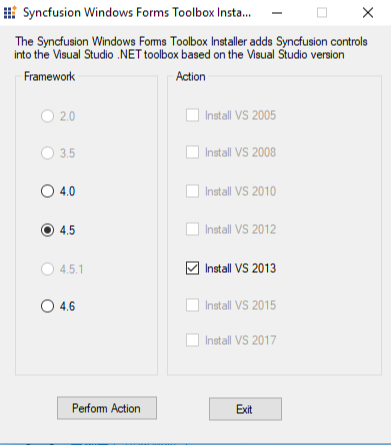
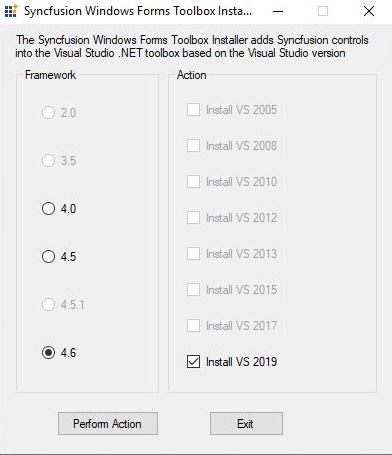
VS2019Support changes committed

diff --git a/Common/Essential-Studio/System-Requirements.md b/Common/Essential-Studio/System-Requirements.md
@@ -29,7 +29,7 @@ The following topic describes the system requirements required by Syncfusion ASP
 
 ### Development Environment
 
-* Microsoft Visual Studio 2015/2017
+* Microsoft Visual Studio 2015/2017/2019
 * .NET Framework 4.5 and later
 * ASP.NET MVC 4 or ASP.NET MVC 5
 
@@ -101,7 +101,7 @@ The following topic describes the system requirements required by Syncfusion ASP
 
 ### Development Environment
 
-* Microsoft Visual Studio 2015/2017
+* Microsoft Visual Studio 2015/2017/2019
 * .NET Core 2.0
 
 ### Browser support and Required Polyfills
@@ -201,7 +201,7 @@ The following topic describes the system requirements required by Syncfusion Win
 
 ### Development Environment
 
-* Microsoft Visual Studio 2005/2008/2010/2012/2013/2015/2017
+* Microsoft Visual Studio 2005/2008/2010/2012/2013/2015/2017/2019
 * .NET Framework 2.0/3.5/4.0/4.5/4.5.1/4.6
 
 ## WPF
@@ -225,7 +225,7 @@ The following topic describes the system requirements required by Syncfusion WPF
 
 ### Development Environment
 
-* Microsoft Visual Studio 2008/2010/2012/2013/2015/2017
+* Microsoft Visual Studio 2008/2010/2012/2013/2015/2017/2019
 * .NET Framework 2.0/3.5/4.0/4.5/4.5.1/4.6
 
 ## Universal Windows Platform
@@ -244,7 +244,7 @@ The following topic describes the system requirements required by Syncfusion Uni
 
 ### Development Environment
 
-* Microsoft Visual Studio 2015/2017
+* Microsoft Visual Studio 2015/2017/2019
 * Windows 10 SDK
 
 ## Xamarin
@@ -269,7 +269,7 @@ The following topic describes the system requirements required by Syncfusion Xam
 
 ### Development Environment
 
-* Microsoft Visual Studio 2015/2017
+* Microsoft Visual Studio 2015/2017/2019
 
 ## ASP.NET Web Forms
 
@@ -291,7 +291,7 @@ The following topic describes the system requirements required by Syncfusion ASP
 
 ### Development Environment
 
-* Microsoft Visual Studio 2010/ 2012/2013/2015/2017
+* Microsoft Visual Studio 2010/ 2012/2013/2015/2017/2019
 * .NET Framework 3.5/4.0/4.5/4.5.1/4.6
 
 
@@ -315,7 +315,7 @@ The following topic describes the system requirements required by Syncfusion ASP
 
 ### Development Environment
 
-* Microsoft Visual Studio 2010/ 2012/2013/2015/2017
+* Microsoft Visual Studio 2010/ 2012/2013/2015/2017/2019
 * .NET Framework 3.5/4.0/4.5/4.5.1/4.6
 * MVC Version: MVC3/MVC4/MVC5
 
@@ -345,7 +345,7 @@ The following topic describes the system requirements required by Syncfusion ASP
 
 ### Development Environment
 
-* Microsoft Visual Studio 2015 Update 3 (minimum) , 2017 version latest (15.6.4). 
+* Microsoft Visual Studio 2015 Update 3 (minimum) , 2017 version latest (15.6.4), 2019. 
 * .NET Framework :  Minimum .NET 4.5.1 upto .NET 4.7 .
 * Command Line (Optional. Necessary for command line deployment)
 * Visual Studio Code (optional text-editor)

diff --git a/Common/Essential-Studio/Utilities.md b/Common/Essential-Studio/Utilities.md
@@ -337,6 +337,7 @@ Syncfusion UWP controls will be automatically configured in Visual Studio toolbo
    * Install VS2013 – Configures Framework 4.5.1 Syncfusion controls in VS 2013 toolbox.
    * Install VS2015 – Configures Framework 4.6 Syncfusion controls in VS 2015 toolbox.
    * Install VS2017 – Configures Framework 4.6 Syncfusion controls in VS 2017 toolbox.
+   * Install VS2019 – Configures Framework 4.6 Syncfusion controls in VS 2019 toolbox
    
     N> You can also configure Syncfusion controls from a lower version Framework assembly to higher version of Visual Studio.
    
